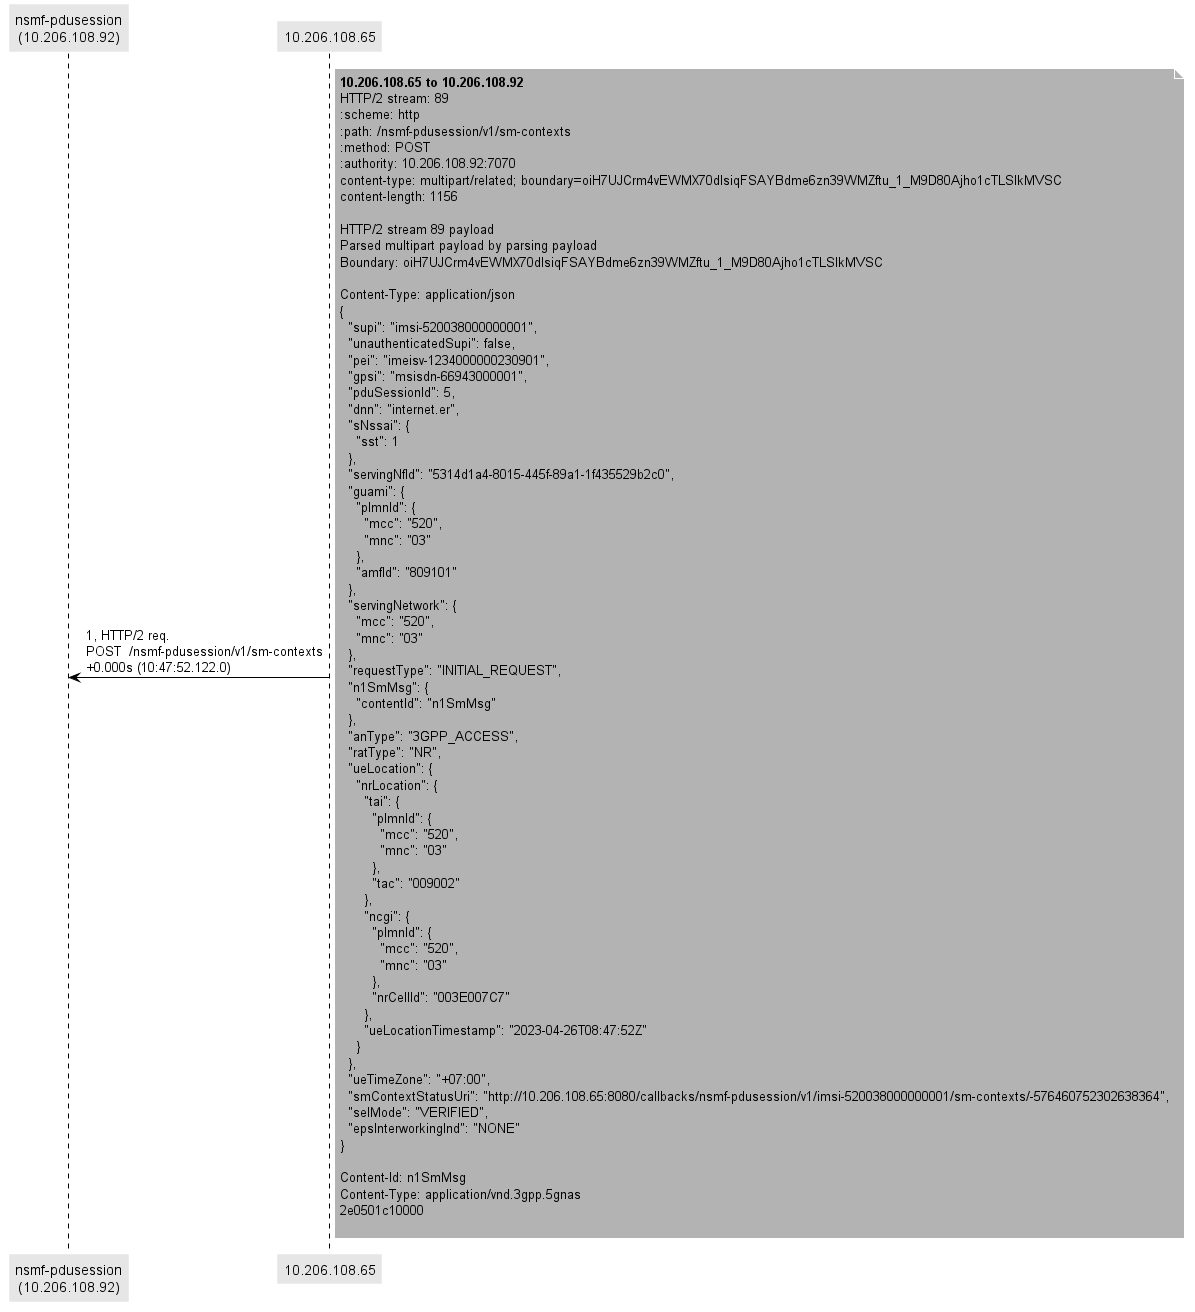
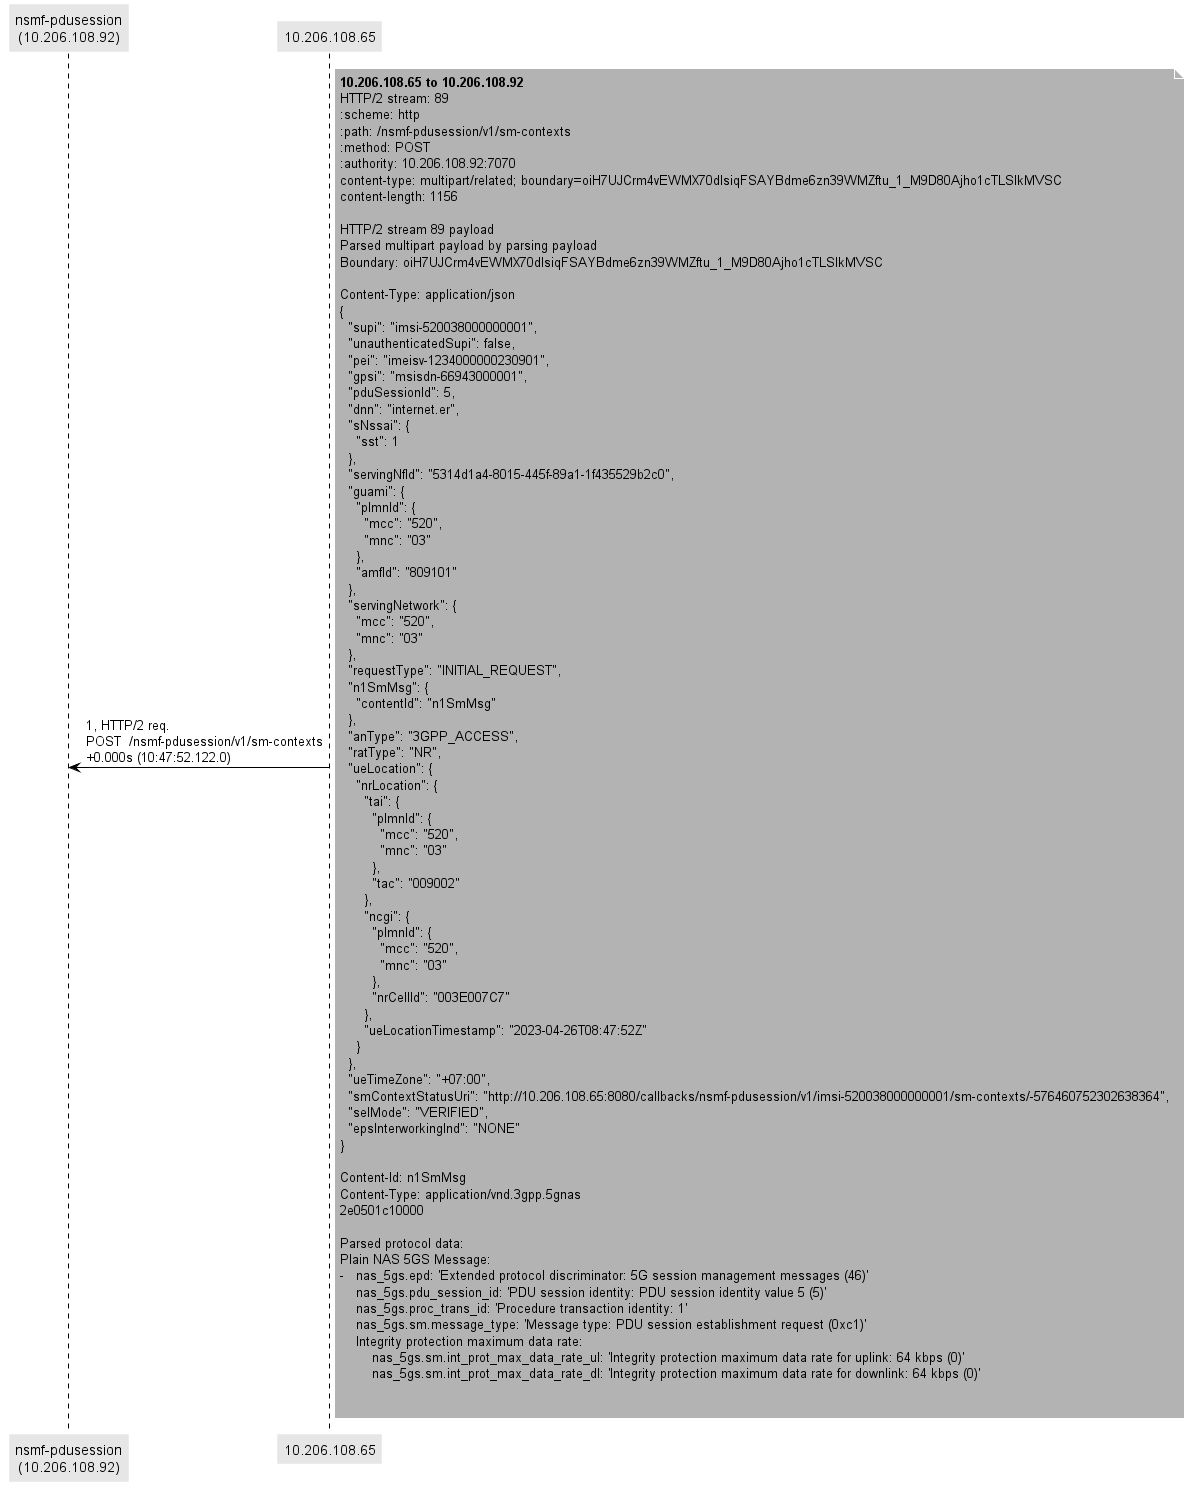
Implemented showing MIME multipart payload and adds related documentation. Also cleaned up some leftover code. Closes #31

diff --git a/trace_visualizer.py b/trace_visualizer.py
@@ -24,6 +24,7 @@ from datetime import datetime
 from enum import Enum
 from typing import Pattern, Tuple
 
+import lxml.etree
 import yaml
 from lxml.etree import Element
 from packaging import version
@@ -371,7 +372,12 @@ def add_http2_fragment(frame_number, stream_id, fragment, current_frame_number):
     return True
 
 
-def parse_http_proto(frame_number, el, ignorehttpheaders_list, ignore_spurious_tcp_retransmissions, packet):
+def parse_http_proto(
+        frame_number,
+        el: Element,
+        ignorehttpheaders_list,
+        ignore_spurious_tcp_retransmissions,
+        packet: Element):
     if not isinstance(el, list):
         return parse_http_proto_el(frame_number, el, ignorehttpheaders_list, ignore_spurious_tcp_retransmissions,
                                    packet)
@@ -382,7 +388,11 @@ def parse_http_proto(frame_number, el, ignorehttpheaders_list, ignore_spurious_t
     return '\n'.join(all_json)
 
 
-def parse_http_proto_el(frame_number, el, ignorehttpheaders_list, ignore_spurious_tcp_retransmissions, packet):
+def parse_http_proto_el(
+        frame_number, el: Element,
+        ignorehttpheaders_list,
+        ignore_spurious_tcp_retransmissions,
+        packet: Element):
     # Option to ignore TCP spurious retransmissions
     try:
         if ignore_spurious_tcp_retransmissions:
@@ -449,7 +459,12 @@ def format_http2_line_breaks(e):
     return e
 
 
-def parse_http_proto_stream(frame_number, stream_el, ignorehttpheaders_list, http2_proto_el, boundary_dict):
+def parse_http_proto_stream(
+        frame_number,
+        stream_el: Element,
+        ignorehttpheaders_list,
+        http2_proto_el: Element,
+        boundary_dict):
     stream_id_el = stream_el.find("field[@name='http2.streamid']")
     if stream_id_el is None:
         return None
@@ -478,24 +493,17 @@ def parse_http_proto_stream(frame_number, stream_el, ignorehttpheaders_list, htt
     fragmented_packet = reassembly_frame is not None
 
     header_list = []
-    multipart_content_type_headers = []
     if len(headers) > 0:
         header_list.append(('HTTP/2 stream', '{0}'.format(stream_id)))
         header_list.extend([(header.find("field[@name='http2.header.name']").attrib["show"],
                              header.find("field[@name='http2.header.value']").attrib["show"]) for header in headers])
-        multipart_content_type_headers = [header for header in header_list if
-                                          header[0] == 'content-type' and 'multipart/related' in header[1]]
 
     boundary = None
 
-    # Return None if there are not headers and the data is reassembled later on (just a data fragment)
+    # Return None if there are no headers and the data is reassembled later on (just a data fragment)
     # Save fragment for later reassembly
-    added_current_fragment_to_cache = False
     if reassembly_frame is not None:
         added_current_fragment_to_cache = add_http2_fragment(reassembly_frame, stream_id, data, frame_number)
-        if not added_current_fragment_to_cache:
-            logging.debug(
-                'Frame {0}: Stream {1}, could not add target reassembly frame'.format(frame_number, stream_id))
     else:
         # No reassembly
         reassembly_frame = frame_number
@@ -581,6 +589,7 @@ def parse_http_proto_stream(frame_number, stream_el, ignorehttpheaders_list, htt
             if boundary is None and len(headers) == 0:
                 data_ascii = hex_string_to_ascii(data_hex, try_json_formatting=False)
                 try:
+                    # Parses the ASCII-converted frame and returns a list of MIME multipart messages that it found
                     m_all = parsing.mime_multipart.parse_multipart_mime(data_ascii)
                     # logging.debug(data_ascii)
 
@@ -595,9 +604,13 @@ def parse_http_proto_stream(frame_number, stream_el, ignorehttpheaders_list, htt
                             return a_str
 
                         multipart_descriptions = []
+                        multipart_ids = []
                         for m in m_all:
+                            # We need this to properly display the message content
                             multipart_descriptions.append(
                                 '\n'.join(['{0}: {1}'.format(h.name, h.value) for h in m.mime_headers]))
+                            # We need this to search (if present) add already-dissected protocol data
+                            multipart_ids.append(parsing.mime_multipart.find_header('Content-Id', m))
 
                         logging.debug(
                             'Found {1} MIME-multiparts by scanning payload. Boundary: "{0} ({3} bytes)".\n  Parts found: {2}'.format(
@@ -624,27 +637,7 @@ def parse_http_proto_stream(frame_number, stream_el, ignorehttpheaders_list, htt
                     frame_number,
                     len(mime_parts),
                     boundary))
-                data_ascii_list = []
-                for idx, mime_part in enumerate(mime_parts):
-                    break
-                    part_data = mime_part.attrib['value']
-                    header = mime_part.find("field[@name='mime_multipart.header.content-type']")
-                    proto_name = header.attrib['show']
-                    logging.debug('Frame {0}: Part {1}: {2}'.format(frame_number, idx + 1, proto_name))
-                    logging.debug('Frame {0}: Part data: {1}'.format(frame_number, part_data))
 
-                    ascii_part = hex_string_to_ascii(
-                        part_data,
-                        try_json_formatting=False)
-                    parsed_part_data = parsing.mime_multipart.parse_multipart_mime(ascii_part, single_part=True)
-                    if len(parsed_part_data) < 1:
-                        part_ascii = 'Could not parse part data: {0}'.format(part_data)
-                    else:
-                        parsed_part_data = parsed_part_data[0]
-                        headers = '\n'.join(['{0}: {1}'.format(h.name, h.value) for h in parsed_part_data.mime_headers])
-                        part_ascii = '--Part {0}\n'.format(idx) + headers + '\n' + parsed_part_data.payload
-                    data_ascii_list.append(part_ascii)
-                data_ascii = '\n\n'.join(data_ascii_list)
                 data_ascii = ''
 
                 # Use always boundary scan because it works quite well now
@@ -679,11 +672,34 @@ def parse_http_proto_stream(frame_number, stream_el, ignorehttpheaders_list, htt
                                     return s
 
                                 payload_clean = rchop(payload_clean, '0d0a')
-                                payload_clean_assembled = '{0}\n{1}'.format(
+
+                                # See if we can find a dissected protocol under this ID
+                                # XPath query: //proto[@name='mime_multipart']//field[@name='mime_multipart.header.content-id' and @show='n1SmMsg']/../proto
+                                dissected_protocol_text = ''
+                                try:
+                                    # Search for an existing parsed protocol (may or may not be present)
+                                    # Needed to adapt th eXPath query because LXML only supports a subset, see
+                                    # https://docs.python.org/3/library/xml.etree.elementtree.html#xpath-support
+                                    matching_mime_multipart_proto = http2_proto_el.find(
+                                        ".//field[@name='mime_multipart.header.content-id'][@show='{0}']/../proto".format(
+                                            multipart_ids[idx]
+                                        ))
+                                    dissected_protocol_text = '\n\nParsed protocol data:\n' + yaml.dump(xml2json(matching_mime_multipart_proto), indent=4, width=1000, sort_keys=False)
+                                except:
+                                    logging.debug('Frame {0}: Dissected protocol not found'.format(frame_number))
+                                    traceback.print_exc()
+
+                                # Final assembly of display text
+                                payload_clean_assembled = '{0}\n{1}{2}'.format(
                                     multipart_descriptions[idx],
-                                    hex_string_to_ascii(payload_clean, return_original_if_not_json=True)
+                                    hex_string_to_ascii(payload_clean, return_original_if_not_json=True),
+                                    dissected_protocol_text
                                 )
 
+                                # This text may contain text such as:
+                                # Content-Type: application/vnd.3gpp.5gnas
+                                # Content-Id: n1ContentId1
+                                # 2e0501c211000901000631310101fe05061000041000042905010a0a0ae0220101790006052041010105250c0b6d7763356764656d6f6474
                                 split_payload_clean.append(payload_clean_assembled)
                             except:
                                 logging.error(

diff --git a/README.md b/README.md
@@ -471,9 +471,23 @@ python trace_visualizer.py -wireshark 4.0.5 -limit 70 -show_timestamp True -cust
 Which generates the following output:
 ![one_packet_diagram](doc/examples/one_packet_4.0.5.svg)
 
+Do note that in this case, the NAS protocol is shown because Wireshark did indeed decode the NAS message in the MIME multipart payload.
+
+For traces where the data was not decoded, such as [this one](doc/examples/Service Request Connected_205_210.pcap), the decoded protocol is not shown.
+
+In this specific example, Wireshark could not detect the multipart messages because the header with the boundary information was compressed with HPACK and
+the table entry was not present in the capture. While for JSON the formatting is done automatically (just some pretty formatting, after all), for binary protocols such as JSON,
+no decoding is implemented here.
+
+``
+python trace_visualizer.py -wireshark 4.0.5 -http2ports "65413,65428,65438,65440,65457,65462,65495,65482,65501,65504,65512,65514,65521,65528,31382,8080,34385" -show_timestamp True "<path>\Service Request Connected_205_210.pcap"
+``
+
+![Service Request Connected_205_210](doc/examples/Service Request Connected_205_210_4.0.5.svg)
+
 ## Notes
 
 There may be some issues with HTTP/2 frame fragment reconstruction, so drop me a line if you find some issues.
 
-For MIME Multipart messages that are not JSON, the diagrams show the binary content in hex form. In some cases, Wireshark can show NAS content within a MIME Multipart, which is not shown here.
-It was a conscious decision to do it like this for now. If I find time for it, I may add some code to take (if existing) the parsed NAS message :) It may be useful for cases where the ``n1n2`` message is encrypted and the SBI trace is not.
+For MIME Multipart messages that are not JSON, the diagrams show the binary content in hex form and (if Wireshark dissectors decoded the data),
+any present decoded protocol.
